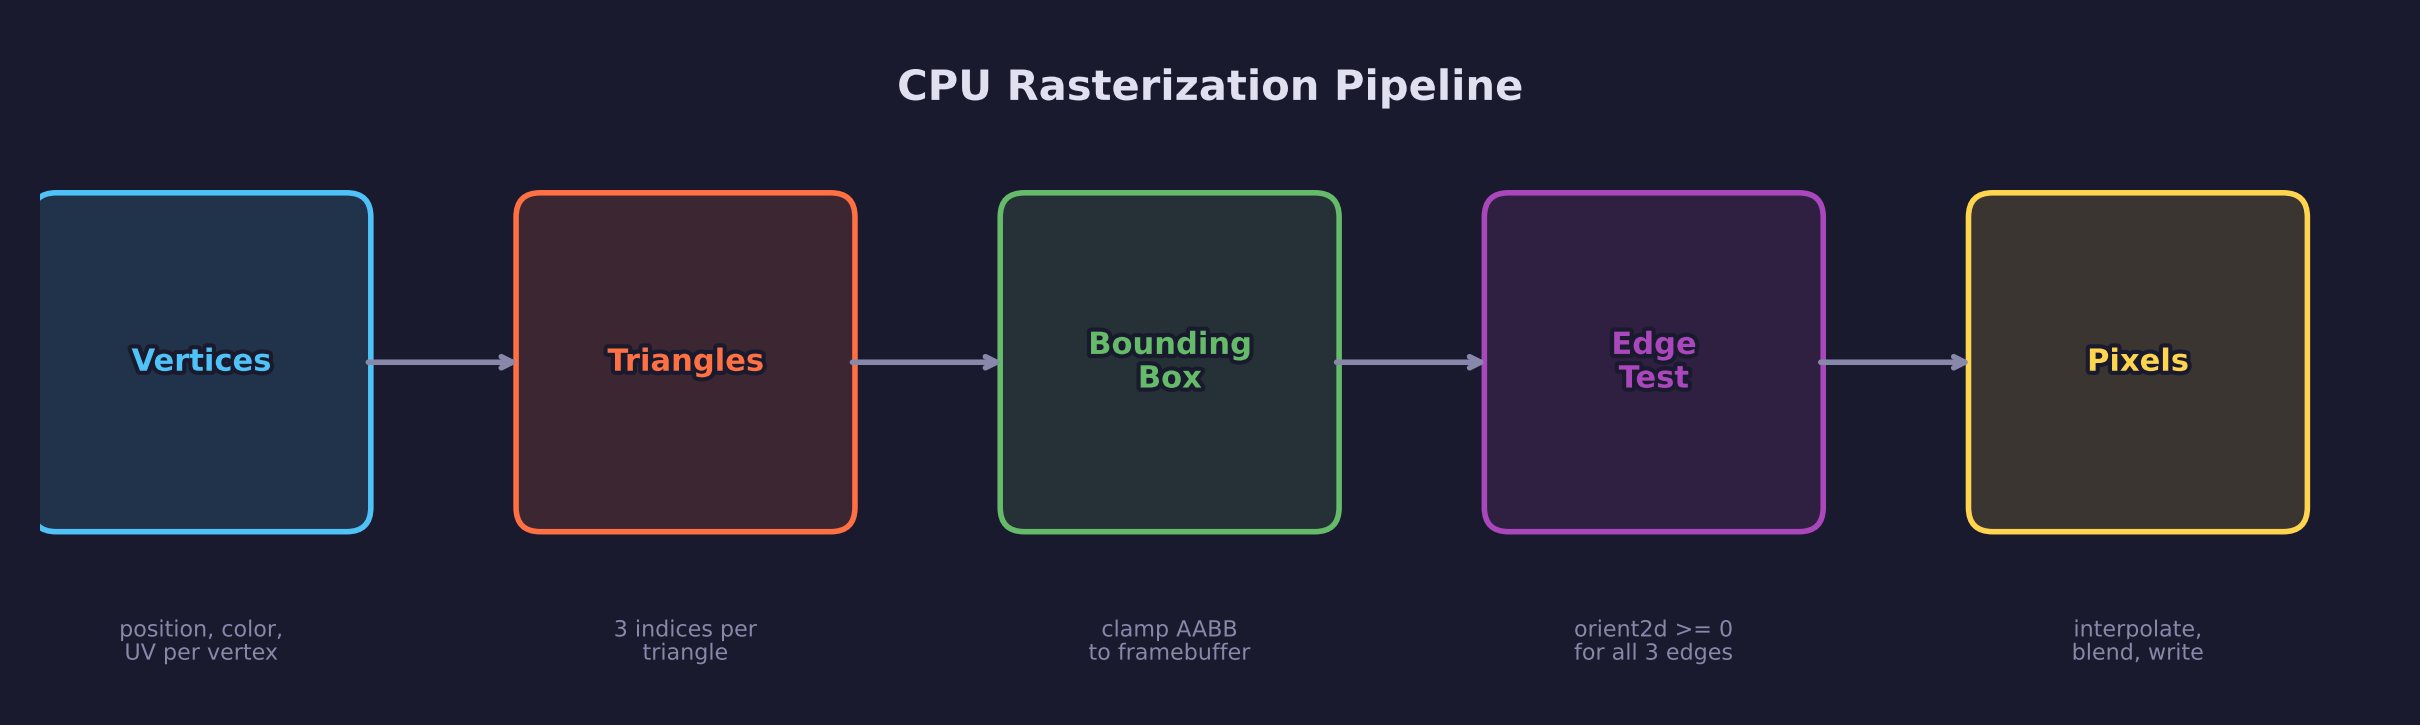
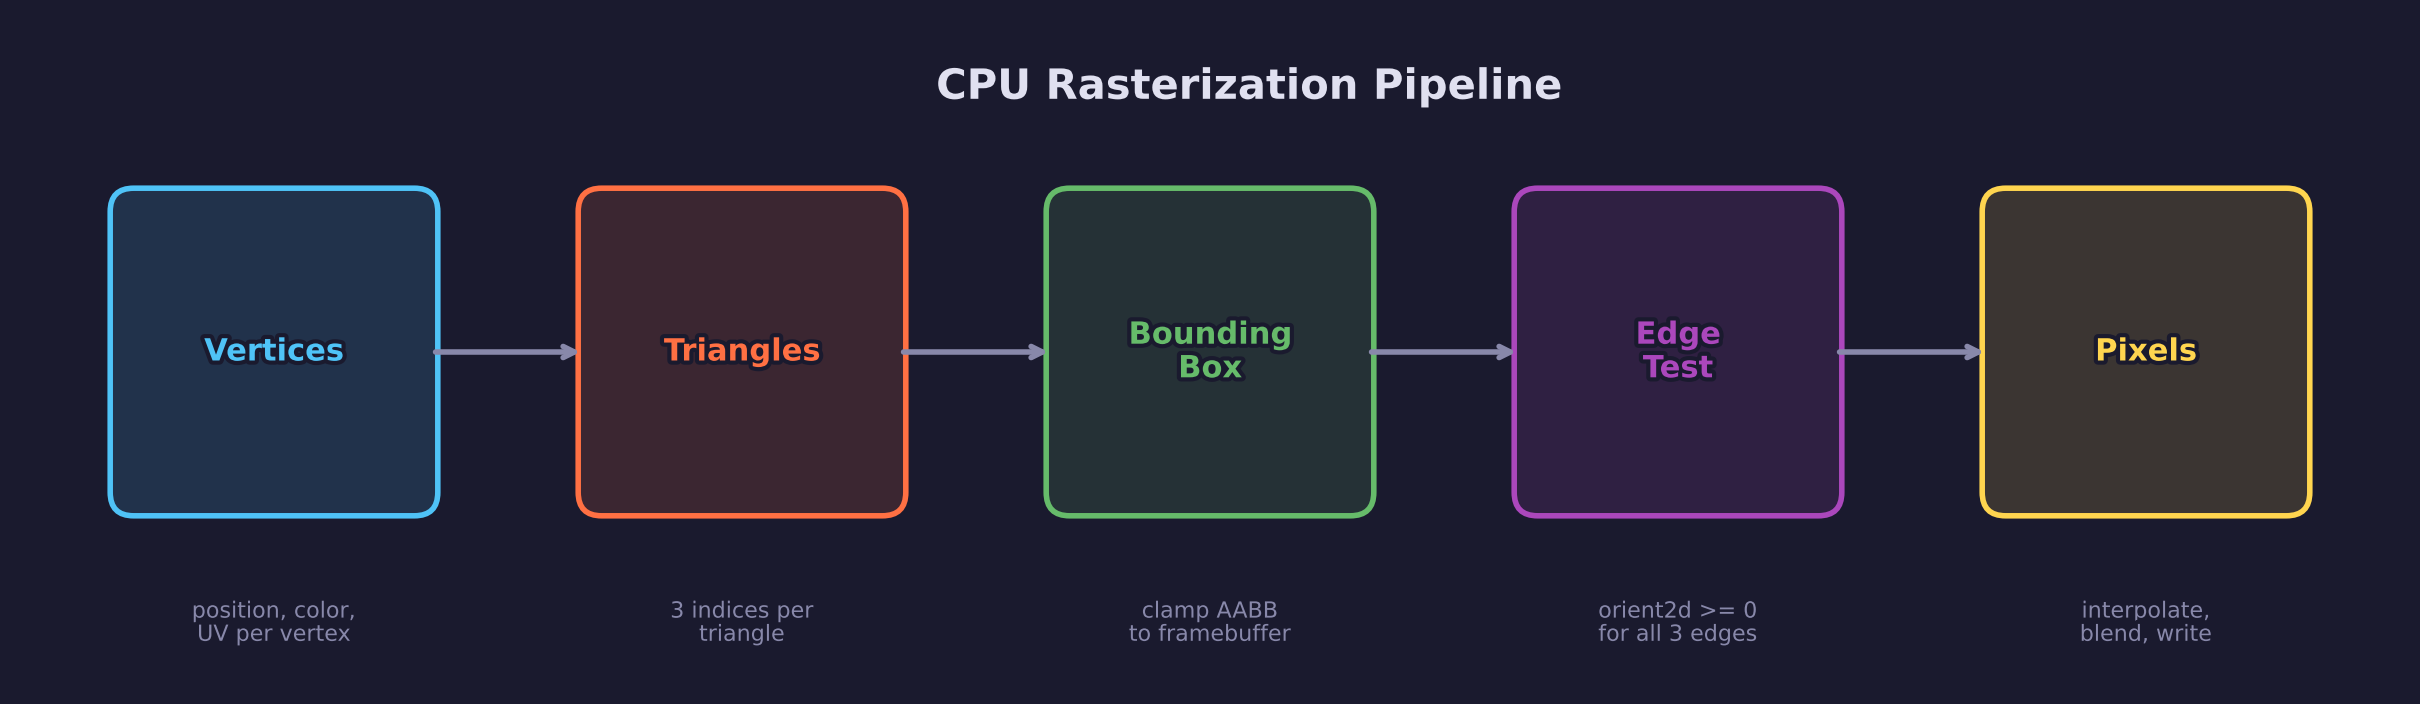
Fix clipped left edge on rasterization pipeline diagram
The Vertices box border was cut off at the left image boundary.
Extend xlim from -0.5 to -1.0 to give adequate margin.

https://claude.ai/code/session_011SWmbgtiWDiQwkMj3V49nk

diff --git a/scripts/forge_diagrams/engine_diagrams.py b/scripts/forge_diagrams/engine_diagrams.py
@@ -1994,7 +1994,7 @@ def diagram_rasterization_pipeline():
     """Rasterization pipeline flow: vertices -> triangles -> pixels."""
     fig, ax = plt.subplots(figsize=(12, 4), facecolor=STYLE["bg"])
     ax.set_facecolor(STYLE["bg"])
-    ax.set_xlim(-0.5, 14)
+    ax.set_xlim(-1.0, 14)
     ax.set_ylim(-0.5, 3.5)
     ax.set_aspect("equal")
     ax.axis("off")
